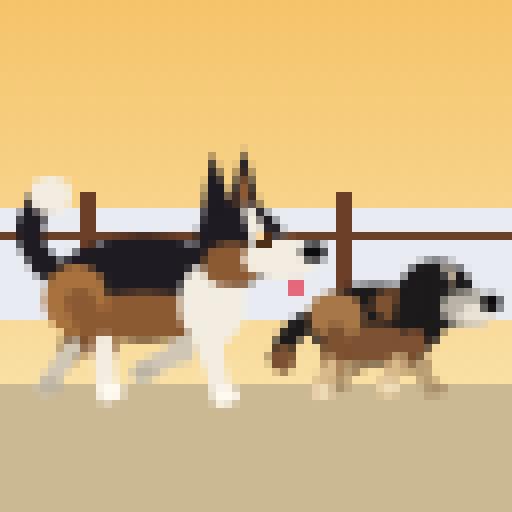
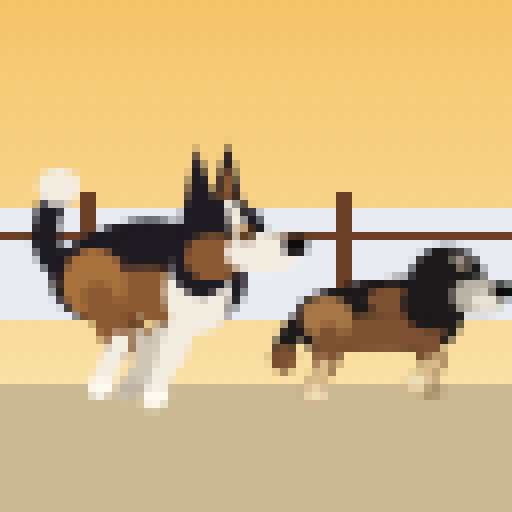
Galope con columna flexible: el lomo se arquea y se estira al correr
Claude-Session: https://claude.ai/code/session_01MfGWskP1aoSAGPJyqTPNTu

Changed region(s): [[0.0312, 0.2812, 0.6562, 0.8125], [0.5312, 0.4688, 1.0, 0.7812], [0.5, 0.6875, 0.5312, 0.7188]]

diff --git a/index.html b/index.html
@@ -230,8 +230,9 @@ function ell(c, x, y, rx, ry, col, rot=0){ c.fillStyle=col; c.beginPath(); c.ell
 function rect(c, x, y, w, h, col){ c.fillStyle=col; c.fillRect(Math.round(x),Math.round(y),Math.round(w),Math.round(h)); }
 function poly(c, pts, col){ c.fillStyle=col; c.beginPath(); c.moveTo(pts[0],pts[1]); for(let i=2;i<pts.length;i+=2) c.lineTo(pts[i],pts[i+1]); c.closePath(); c.fill(); }
 
-// ---------- Patas articuladas ----------
-// Ángulos medidos desde la vertical; positivo = hacia adelante. Cada pata tiene muslo, canilla y pie.
+// ---------- Perritas con columna flexible ----------
+// El galope de perros y gatos dobla la columna: se "recogen" (lomo arqueado, patas juntas bajo el cuerpo)
+// y se "estiran" (lomo largo, patas abiertas). Acá el torso es una curva que se arquea, se estira y se inclina.
 function seg(c, x1, y1, x2, y2, w, col){ c.strokeStyle=col; c.lineWidth=w; c.lineCap="round"; c.beginPath(); c.moveTo(x1,y1); c.lineTo(x2,y2); c.stroke(); }
 function leg(c, hx, hy, L1, L2, a, b, w1, w2, c1, c2, paw){
   const kx = hx + Math.sin(a)*L1, ky = hy + Math.cos(a)*L1;
@@ -239,108 +240,104 @@ function leg(c, hx, hy, L1, L2, a, b, w1, w2, c1, c2, paw){
   seg(c, hx, hy, kx, ky, w1, c1); seg(c, kx, ky, px, py, w2, c2);
   ell(c, px + 0.6, py - 0.2, w2*0.62, w2*0.42, paw);
 }
-// Ciclo de galope: apoyo (la pata va de adelante hacia atrás, recta) y vuelo (se dobla y vuelve adelante)
 function gait(p, front){
   p = ((p % 1) + 1) % 1;
-  if(p < 0.55){ const u = p/0.55; return front ? [0.5 - 1.05*u, 0] : [0.55 - 1.0*u, -0.45 + 0.25*u]; }
-  const u = (p-0.55)/0.45, s = Math.sin(Math.PI*u);
-  return front ? [-0.55 + 1.05*u + 0.25*s, -1.5*s] : [-0.45 + 1.0*u, -0.2 - 1.2*s];
+  if(p < 0.5){ const u = p/0.5; return front ? [0.6 - 1.2*u, -0.05] : [0.7 - 1.2*u, -0.5 + 0.35*u]; }
+  const u = (p-0.5)/0.5, s = Math.sin(Math.PI*u);
+  return front ? [-0.6 + 1.2*u + 0.2*s, -1.6*s] : [-0.5 + 1.2*u, -0.15 - 1.3*s];
 }
-function legPose(st, t, phase, front){
-  if(st==="run") return gait(t*3.4 + phase, front);
-  if(st==="air") return front ? [0.95, -0.9] : [-0.9, 0.5];          // en el aire: patas estiradas
-  if(st==="duck") return front ? [1.25, -2.3] : [0.9, -2.1];         // agachada: patas recogidas
-  return front ? [0.05, 0] : [0.25, -0.35];
+// pose: devuelve todo lo que cambia con el movimiento
+function pose(st, ph){
+  const P = Math.PI*2;
+  if(st==="run"){
+    const s = Math.cos(P*ph);                 // +1 recogida, -1 estirada
+    return { flex:s, arch: 1.2 + 2.6*Math.max(0,s), pitch: -0.07*Math.sin(P*ph), lift: 1.4*Math.max(0,-s) + 0.6*Math.abs(Math.sin(P*ph)),
+      legs: [gait(ph, false), gait(ph+.08, false), gait(ph+.5, true), gait(ph+.58, true)], tail: Math.sin(P*ph) };
+  }
+  if(st==="air") return { flex:-1, arch:.6, pitch:-.12, lift:0, legs:[[-0.95,0.5],[-0.8,0.4],[1.0,-0.9],[0.85,-0.7]], tail:-.6 };
+  if(st==="duck") return { flex:.6, arch:.4, pitch:.04, lift:-1, legs:[[0.95,-2.2],[0.85,-2.1],[1.3,-2.4],[1.2,-2.3]], tail:.3, duck:true };
+  return { flex:0, arch:1.4, pitch:0, lift:0, legs:[[0.25,-0.35],[0.1,-0.3],[0.05,0],[-0.05,0]], tail:0 };
+}
+function torso(c, H, S, arch, rH, rS, colBack, colBelly, belly){
+  const cx = (H[0]+S[0])/2, cy = (H[1]+S[1])/2 - arch;
+  const pts = [];
+  for(let i=0;i<=8;i++){ const u=i/8, v=1-u; pts.push([v*v*H[0]+2*v*u*cx+u*u*S[0], v*v*H[1]+2*v*u*cy+u*u*S[1], rH+(rS-rH)*u]); }
+  pts.forEach(([x,y,r])=> ell(c, x, y, r*1.15, r, colBack));
+  if(belly) pts.forEach(([x,y,r],i)=>{ if(i>0&&i<8) ell(c, x, y+r*.55, r*.95, r*.5, colBelly); });
+  return pts;
+}
+
+function drawDog(c, x, y, t, st, D){
+  const ph = (t*D.freq) % 1, p = pose(st, ph);
+  c.save(); c.translate(x, y);
+  const baseY = -D.height + (p.duck ? D.duckDrop : 0) - p.lift;
+  const reach = D.span/2 + p.flex*(-D.flexAmt);          // recogida: cadera y hombro más cerca
+  const mid = D.mid;
+  let H = [mid - reach, baseY + D.hipOff], S = [mid + reach, baseY];
+  // inclinación del cuerpo (pitch) alrededor del centro
+  const rot = (P)=>{ const dx=P[0]-mid, dy=P[1]-baseY; return [mid + dx*Math.cos(p.pitch) - dy*Math.sin(p.pitch), baseY + dx*Math.sin(p.pitch) + dy*Math.cos(p.pitch)]; };
+  H = rot(H); S = rot(S);
+  const L1 = p.duck ? D.L1*.85 : D.L1, L2 = p.duck ? D.L2*.85 : D.L2;
+  const hipP = [H[0], H[1] + D.rH*.45], shP = [S[0], S[1] + D.rS*.55];
+  // patas lejanas
+  leg(c, hipP[0]+1, hipP[1], L1, L2, p.legs[1][0], p.legs[1][1], D.w1, D.w2, D.farHind[0], D.farHind[1], D.farHind[2]);
+  leg(c, shP[0]-1, shP[1], L1, L2, p.legs[3][0], p.legs[3][1], D.w1*.9, D.w2, D.farFront[0], D.farFront[1], D.farFront[2]);
+  // cola
+  D.tail(c, H, D.rH, p);
+  // torso flexible
+  torso(c, H, S, p.arch, D.rH, D.rS, D.back, D.belly, true);
+  D.marks(c, H, S, p);
+  // patas cercanas
+  leg(c, hipP[0], hipP[1], L1, L2, p.legs[0][0], p.legs[0][1], D.w1*1.1, D.w2*1.05, D.hind[0], D.hind[1], D.hind[2]);
+  leg(c, shP[0], shP[1], L1, L2, p.legs[2][0], p.legs[2][1], D.w1, D.w2*1.05, D.front[0], D.front[1], D.front[2]);
+  // cabeza unida al hombro; se balancea al revés que el cuerpo
+  const bob = st==="run" ? Math.sin(Math.PI*2*ph + 1)*.8 : 0;
+  c.translate(S[0] - D.headRef[0] + (p.duck ? D.duckHead[0] : 0), S[1] - D.headRef[1] + bob + (p.duck ? D.duckHead[1] : 0));
+  D.head(c, st, ph, p);
+  c.restore();
 }
 
 // Lizy: grande, lomo negro, mejillas cafés, franja blanca en la cara, pecho y patas blancas, cola enroscada con punta blanca
-function drawLizy(c, x, y, t, st){
-  const K="#1f1b22", B="#8b5a33", Bl="#a8723f", Wt="#f3ede1", N="#0d0b0e";
-  const run = st==="run", duck = st==="duck";
-  const cyc = t*3.4, bounce = run ? Math.abs(Math.sin(cyc*Math.PI))*1.6 : 0;
-  const drop = duck ? 7 : 0;
-  c.save(); c.translate(x, y);
-  const by = -14 + drop - bounce;                 // centro del cuerpo
-  const hipB = [6, by+2], hipF = [21, by+2];
-  const L1 = duck ? 5 : 6, L2 = duck ? 5 : 6;
-  // patas del lado lejano (más oscuras)
-  let [a,b] = legPose(st, t, .5, false); leg(c, hipB[0]+1.5, hipB[1], L1, L2, a, b, 3.4, 2.4, "#6d4527", "#cfc6b6", "#bdb3a2");
-  [a,b] = legPose(st, t, .62, true);   leg(c, hipF[0]-1, hipF[1], L1, L2, a, b, 3.2, 2.4, "#cfc6b6", "#cfc6b6", "#bdb3a2");
-  // cola: enroscada; agachada queda más baja
-  c.strokeStyle=K; c.lineWidth=3.2; c.lineCap="round"; c.beginPath();
-  const tw = run ? Math.sin(cyc*Math.PI*2)*1.2 : 0;
-  if(duck){ c.moveTo(4, by-1); c.quadraticCurveTo(-3, by-3, -2, by-8); } else { c.moveTo(4, by-1); c.quadraticCurveTo(-3+tw, by-5, 1+tw, by-11); }
-  c.stroke(); ell(c, duck ? -1.8 : 2.2+tw, duck ? by-8.5 : by-11.5, 2.6, 2.4, Wt);
-  // cuerpo (se estira un poco al correr)
-  const stretch = run ? Math.sin(cyc*Math.PI*2)*.8 : 0;
-  ell(c, 14, by, 11.5 + stretch, duck ? 5.5 : 6.5, K);
-  ell(c, 14, by+3.5, 9, 3, B);
-  ell(c, 5.5, by+1.5, 4, 4.5, Bl);
-  ell(c, 22.5, by+2, 4.2, 5.5, Wt);
-  // patas del lado cercano
-  [a,b] = legPose(st, t, 0, false); leg(c, hipB[0], hipB[1], L1, L2, a, b, 3.8, 2.6, B, Wt, "#fffaf0");
-  [a,b] = legPose(st, t, .12, true); leg(c, hipF[0], hipF[1], L1, L2, a, b, 3.4, 2.6, Wt, Wt, "#fffaf0");
-  // cabeza: agachada va más baja y estirada hacia adelante, orejas hacia atrás
-  const hb = run ? Math.sin(cyc*Math.PI*2)*.6 : 0;
-  const hx = duck ? 3 : 0, hy = (duck ? 9 : 0) + hb + (by + 14);
-  c.translate(hx, hy);
-  if(duck){
-    poly(c, [22,-22.5, 18,-26, 24.5,-23.5], K);       // orejas echadas hacia atrás
-    poly(c, [24,-23, 20.5,-27, 27,-23.5], K);
-    poly(c, [23.5,-23.5, 21.5,-25.5, 25.5,-23.8], B);
-  } else {
-    poly(c, [21,-22, 22.5,-31, 25.5,-23], K);
-    poly(c, [24,-22, 26.5,-31.5, 29,-22], K);
-    poly(c, [25.2,-23.5, 26.5,-29, 27.8,-23.5], B);
+const LIZY = { freq:3.0, height:15, span:15, flexAmt:2.2, mid:14, hipOff:.5, rH:5.2, rS:6.2, L1:6.2, L2:6.4, w1:3.6, w2:2.5, duckDrop:7,
+  headRef:[22,-14], duckHead:[3,4],
+  back:"#1f1b22", belly:"#8b5a33",
+  hind:["#8b5a33","#f3ede1","#fffaf0"], front:["#f3ede1","#f3ede1","#fffaf0"],
+  farHind:["#6d4527","#cfc6b6","#bdb3a2"], farFront:["#cfc6b6","#cfc6b6","#bdb3a2"],
+  tail(c, H, r, p){ const tw=p.tail*1.5, K="#1f1b22"; c.strokeStyle=K; c.lineWidth=3.2; c.lineCap="round"; c.beginPath();
+    if(p.duck){ c.moveTo(H[0]-r*.8, H[1]-1); c.quadraticCurveTo(H[0]-8, H[1]-2, H[0]-7, H[1]-7); c.stroke(); ell(c, H[0]-7, H[1]-7.5, 2.6, 2.4, "#f3ede1"); }
+    else { c.moveTo(H[0]-r*.8, H[1]-1); c.quadraticCurveTo(H[0]-8+tw, H[1]-5, H[0]-4+tw, H[1]-11); c.stroke(); ell(c, H[0]-4+tw, H[1]-11.5, 2.6, 2.4, "#f3ede1"); } },
+  marks(c, H, S, p){ ell(c, H[0]-.5, H[1]+.5, 4, 4.4, "#a8723f"); ell(c, S[0]+1, S[1]+1.5, 4.2, 5.4, "#f3ede1"); },
+  head(c, st, ph, p){
+    const K="#1f1b22", B="#8b5a33", Wt="#f3ede1";
+    if(p.duck){ poly(c,[22,-22.5,18,-26,24.5,-23.5],K); poly(c,[24,-23,20.5,-27,27,-23.5],K); poly(c,[23.5,-23.5,21.5,-25.5,25.5,-23.8],B); }
+    else { const ear = st==="run" ? Math.sin(Math.PI*2*ph)*.6 : 0;
+      poly(c,[21,-22,22.5-ear,-31,25.5,-23],K); poly(c,[24,-22,26.5-ear,-31.5,29,-22],K); poly(c,[25.2,-23.5,26.5-ear,-29,27.8,-23.5],B); }
+    ell(c,23.5,-16.5,4,4.5,K);            // cuello
+    ell(c,26,-19.5,5.6,5,K); ell(c,25,-17,3.6,2.8,B); ell(c,31,-17.6,4.6,2.6,Wt);
+    poly(c,[26.2,-24.2,27.6,-24.2,30,-19.5,27.5,-19],Wt); ell(c,35.2,-18.4,1.5,1.3,"#0d0b0e");
+    rect(c,27.6,-21.2,1.6,1.6,"#4a2a12"); rect(c,28,-21.2,.7,.7,"#ffd9a8");
+    if(st==="run" && Math.sin(Math.PI*2*ph) > -.2) rect(c,31.5,-15.4,2.2,2.6,"#e5677a");
   }
-  ell(c, 26, -19.5, 5.6, 5, K);
-  ell(c, 25, -17, 3.6, 2.8, B);
-  ell(c, 31, -17.6, 4.6, 2.6, Wt);
-  poly(c, [26.2,-24.2, 27.6,-24.2, 30,-19.5, 27.5,-19], Wt);
-  ell(c, 35.2, -18.4, 1.5, 1.3, N);
-  rect(c, 27.6, -21.2, 1.6, 1.6, "#4a2a12");
-  rect(c, 28, -21.2, .7, .7, "#ffd9a8");
-  if(run && Math.sin(cyc*Math.PI*2) > 0){ rect(c, 31.5, -15.4, 2.2, 2.4, "#e5677a"); }
-  c.restore();
-}
-
+};
 // Camila: chiquita, negra con café, hocico canoso, orejas caídas, patas color crema
-function drawCamila(c, x, y, t, st){
-  const K="#1d1a1c", B="#7d5232", Bt="#a77748", G="#b9b2a6", Wt="#e9e3d6", N="#0d0b0e", Pw="#d8b98c";
-  const run = st==="run", duck = st==="duck";
-  const tt = t*1.15, cyc = tt*3.4, bounce = run ? Math.abs(Math.sin(cyc*Math.PI))*1.1 : 0;   // patas cortas: pasos más rápidos
-  const drop = duck ? 4 : 0;
-  c.save(); c.translate(x, y);
-  const by = -8.5 + drop - bounce;
-  const hipB = [4, by+1.5], hipF = [13.5, by+1.5];
-  const L1 = duck ? 3.4 : 3.8, L2 = duck ? 3.2 : 3.8;
-  let [a,b] = legPose(st, tt, .5, false); leg(c, hipB[0]+1, hipB[1], L1, L2, a, b, 2.6, 2, "#5d3c24", "#b89c74", "#a88f6c");
-  [a,b] = legPose(st, tt, .62, true);   leg(c, hipF[0]-1, hipF[1], L1, L2, a, b, 2.4, 2, "#5d3c24", "#b89c74", "#a88f6c");
-  // cola peluda que se mueve
-  const tw = run ? Math.sin(cyc*Math.PI*2)*1.4 : 0;
-  c.strokeStyle=K; c.lineWidth=2.6; c.lineCap="round"; c.beginPath(); c.moveTo(2.5, by-.5); c.quadraticCurveTo(-2, by-.5, -3, by+3.5+tw); c.stroke();
-  ell(c, -2.6, by+3.5+tw, 1.6, 1.8, B);
-  // cuerpo
-  ell(c, 9, by, 8.5, duck ? 4.2 : 5, K);
-  ell(c, 9, by+2.5, 6.5, 2.4, B);
-  ell(c, 4, by-1, 3.4, 3, Bt);
-  ell(c, 12, by-2.5, 3.5, 2, B);
-  [a,b] = legPose(st, tt, 0, false);  leg(c, hipB[0], hipB[1], L1, L2, a, b, 2.8, 2.2, B, Pw, "#efdcb8");
-  [a,b] = legPose(st, tt, .12, true); leg(c, hipF[0], hipF[1], L1, L2, a, b, 2.6, 2.2, B, Pw, "#efdcb8");
-  // cabeza
-  const hb = run ? Math.sin(cyc*Math.PI*2)*.5 : 0;
-  c.translate(duck ? 2 : 0, (duck ? 5 : 0) + hb + (by + 8.5));
-  ell(c, 16.5, -12.5, 4.8, 4.4, K);
-  ell(c, 20.4, -10.8, 3.3, 2.3, G);
-  ell(c, 21.5, -10, 2, 1.3, Wt);
-  ell(c, 23.4, -11.4, 1.3, 1.1, N);
-  const flap = run ? Math.sin(cyc*Math.PI*2)*.25 : 0;
-  ell(c, 13.6, -11.3, 1.9, 3.6, K, .25 + flap + (duck ? .6 : 0));
-  rect(c, 17.6, -14.6, 1.4, 1.4, "#2a1a10");
-  rect(c, 17.9, -14.6, .6, .6, "#e8d0b0");
-  rect(c, 17.2, -16.2, 2.4, .9, G);
-  c.restore();
-}
+const CAMILA = { freq:3.6, height:9, span:10, flexAmt:1.4, mid:9, hipOff:.3, rH:3.8, rS:4.4, L1:3.9, L2:3.9, w1:2.7, w2:2.1, duckDrop:3.5,
+  headRef:[13.5,-8.5], duckHead:[2,2.5],
+  back:"#1d1a1c", belly:"#7d5232",
+  hind:["#7d5232","#d8b98c","#efdcb8"], front:["#7d5232","#d8b98c","#efdcb8"],
+  farHind:["#5d3c24","#b89c74","#a88f6c"], farFront:["#5d3c24","#b89c74","#a88f6c"],
+  tail(c, H, r, p){ const tw=p.tail*1.4; c.strokeStyle="#1d1a1c"; c.lineWidth=2.6; c.lineCap="round"; c.beginPath(); c.moveTo(H[0]-r*.7, H[1]); c.quadraticCurveTo(H[0]-5, H[1], H[0]-6, H[1]+3.5+tw); c.stroke(); ell(c, H[0]-5.6, H[1]+3.5+tw, 1.6, 1.8, "#7d5232"); },
+  marks(c, H, S, p){ ell(c, H[0]-.3, H[1]-.5, 3.2, 2.8, "#a77748"); ell(c, (H[0]+S[0])/2+2, (H[1]+S[1])/2-p.arch*.6-1.5, 3.2, 1.8, "#7d5232"); },
+  head(c, st, ph, p){
+    const K="#1d1a1c", G="#b9b2a6";
+    ell(c,14.5,-10,3.4,3.6,K);            // cuello
+    ell(c,16.5,-12.5,4.8,4.4,K); ell(c,20.4,-10.8,3.3,2.3,G); ell(c,21.5,-10,2,1.3,"#e9e3d6"); ell(c,23.4,-11.4,1.3,1.1,"#0d0b0e");
+    const flap = st==="run" ? Math.sin(Math.PI*2*ph)*.35 : 0;
+    ell(c,13.6,-11.3,1.9,3.6,K,.25+flap+(p.duck?.6:0));
+    rect(c,17.6,-14.6,1.4,1.4,"#2a1a10"); rect(c,17.9,-14.6,.6,.6,"#e8d0b0"); rect(c,17.2,-16.2,2.4,.9,G);
+  }
+};
+function drawLizy(c, x, y, t, st){ drawDog(c, x, y, t, st, LIZY); }
+function drawCamila(c, x, y, t, st){ drawDog(c, x, y, t, st, CAMILA); }
 
 // ---------- Escenario ----------
 const SKY = [
